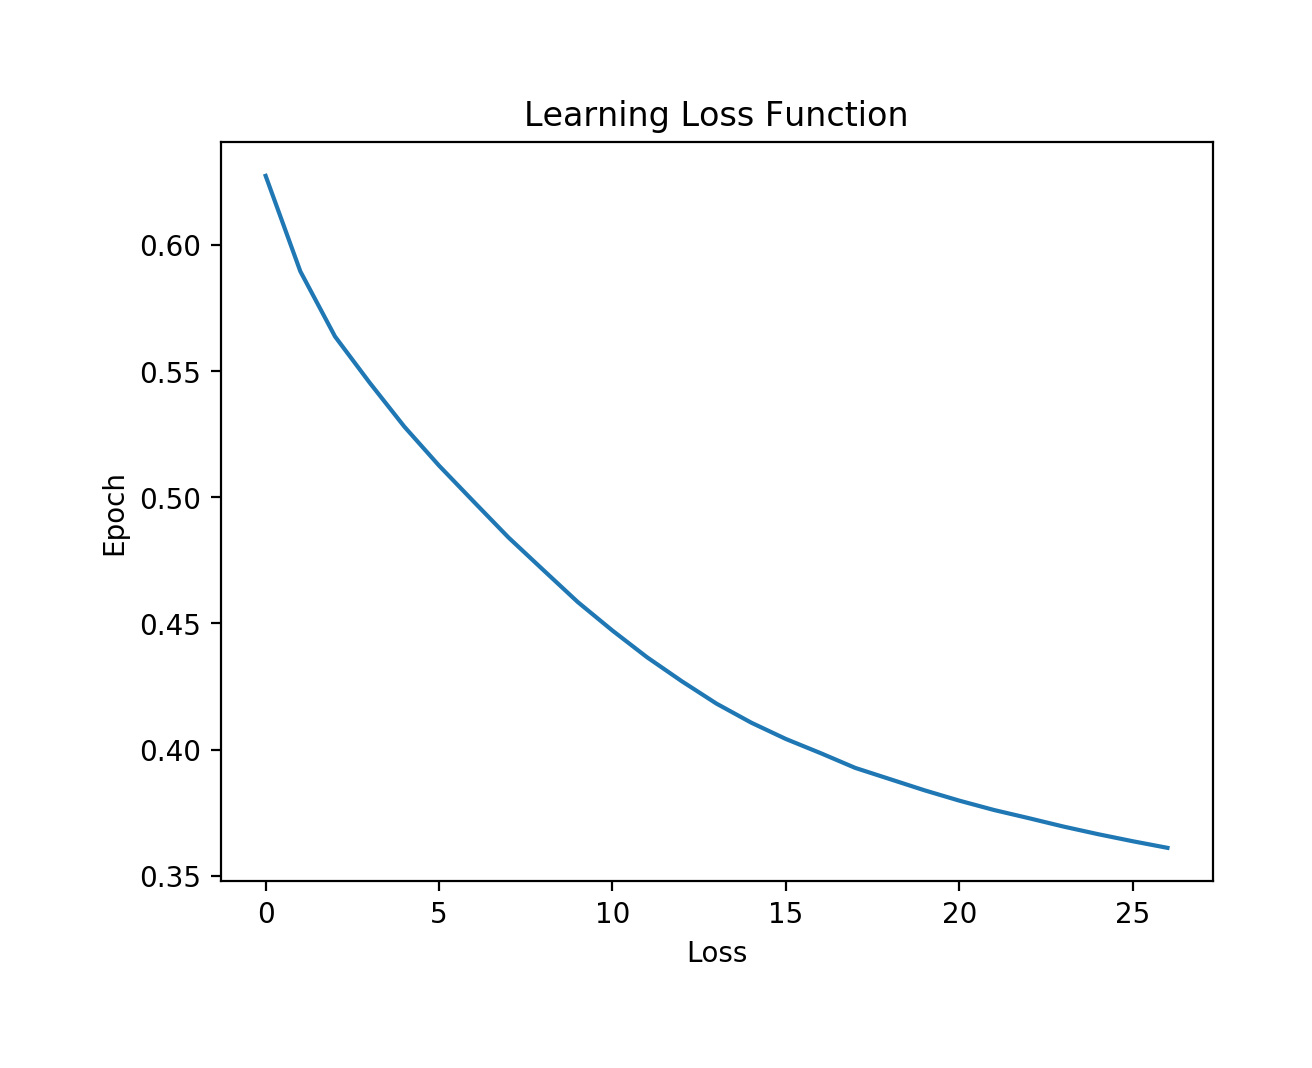
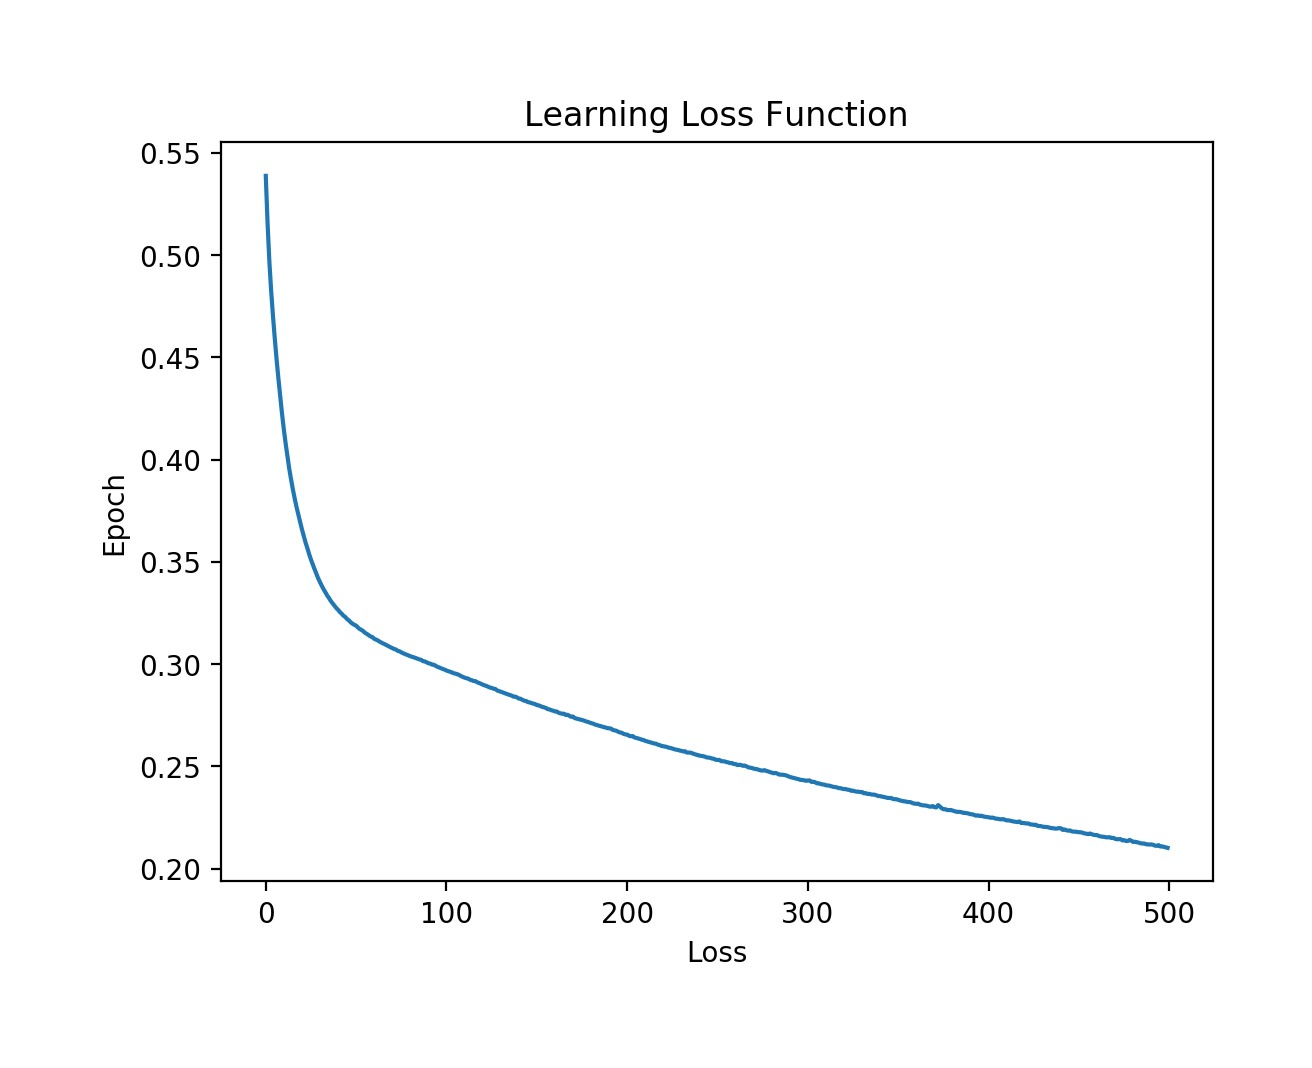
cleaned up README and commented code

diff --git a/main.py b/main.py
@@ -4,10 +4,16 @@ import matplotlib.pyplot as plt
 from sklearn.neural_network import MLPClassifier
 from sklearn.metrics import confusion_matrix
 from sklearn.metrics import mean_squared_error
+import random
 
 # enviroment booleans
 DEBUG = True
 PLOTS = True
+SEED = 555
+#SEED = random.randint(0, 1000)
+
+print("=============== STARTING ===============")
+print("Debug:%r Plots:%r Seed:%d \n" % (DEBUG,  PLOTS, SEED))
 
 # read data form file CSV into pandas data structure
 training_data = pd.read_csv('data/CSV/netflix-train.csv', sep=';')
@@ -19,14 +25,15 @@ training_x = training_data.drop('expected', axis=1)
 testing_y = testing_data['expected']
 testing_x = testing_data.drop('expected', axis=1)
 
-# generate MLP with 1 hidden layer of 9 neurons (18input/2)
+# generate MLP with 1 hidden layer of 15 neurons (30 input/2)
 mlp = MLPClassifier(hidden_layer_sizes=(15,),
                     max_iter=500,
                     activation = 'relu',
                     solver='adam',
                     verbose=DEBUG,
-                    early_stopping=True,
+                    early_stopping=False,
                     validation_fraction=0.2,
+                    random_state=SEED
                     )
 mlp.fit(training_x, training_y)
 

diff --git a/README.md b/README.md
@@ -6,49 +6,97 @@ the 30 most rated movies. This data is from real users on Netflix. (this data is
 This was a project from the 2009 competition called "Netflix Prize"
 https://www.netflixprize.com/community/topic_1537.html
 
-https://web.stanford.edu/class/archive/cs/cs109/cs109.1166/handouts/datasets.html
 
-Values:
+## Tools Used
+* Language: Python
+* Sklearn (Scikit-Learn)
+* Seaborn
+* Pandas
+
+## The data
+
+The data was obtained from the following link:
+
+[Stanford CS109: Machine Learning Datasets](https://web.stanford.edu/class/archive/cs/cs109/cs109.1166/handouts/datasets.html)
+ 
+ You can find some other interesting data sets at the some link
+ 
+  ### Data formatting
+
 Each row in the train and test set represents one user. Each column represents one movie. All users in the dataset 
 rated all movies in the dataset. Each entry in this dataset is binary. 
 * A value of 1 indicates a rating of 4 or 5  (they liked the movie). 
 * A value of 0 indicates a rating of 1, 2 or 3 (didn't really like it).
 
-Column meaning:
-Each column represents ratings for a particular movie.
-Column index, Movie (Year)
-1, Independence Day (1996)
-2, The Patriot (2000)
-3, The Day After Tomorrow (2004)
-4, Pirates of the Caribbean: The Curse of the Black Pearl (2003)
-5, Pretty Woman (1990)
-6, Forrest Gump (1994)
-7, The Green Mile (1999)
-8, Con Air (1997)
-9, Twister (1996)
-10, Sweet Home Alabama (2002)
-11, Pearl Harbor (2001)
-12, Armageddon (1998)
-13, The Rock (1996)
-14, What Women Want (2000)
-15, Bruce Almighty (2003)
-16, Ocean's Eleven (2001)
-17, The Bourne Identity (2002)
-18, The Italian Job (2003)
-19, I Robot (2004)
-20, American Beauty (1999)
-21, How to Lose a Guy in 10 Days (2003)
-22, Lethal Weapon 4 (1998)
-23, Shrek 2 (2004)
-24, Lost in Translation (2003)
-25, Top Gun (1986)
-26, Pulp Fiction (1994)
-27, Gone in 60 Seconds (2000)
-28, The Sixth Sense (1999)
-29, Lord of the Rings: The Two Towers (2002)
-30, Men of Honor (2000)
+ **The 30 input features used:**
 
-Prediction:
+Each column represents ratings for a particular movie.
+1. Independence Day (1996)
+2. The Patriot (2000)
+3. The Day After Tomorrow (2004)
+4. Pirates of the Caribbean: The Curse of the Black Pearl (2003)
+5. Pretty Woman (1990)
+6. Forrest Gump (1994)
+7. The Green Mile (1999)
+8. Con Air (1997)
+9. Twister (1996)
+10. Sweet Home Alabama (2002)
+11. Pearl Harbor (2001)
+12. Armageddon (1998)
+13. The Rock (1996)
+14. What Women Want (2000)
+15. Bruce Almighty (2003)
+16. Ocean's Eleven (2001)
+17. The Bourne Identity (2002)
+18. The Italian Job (2003)
+19. I Robot (2004)
+20. American Beauty (1999)
+21. How to Lose a Guy in 10 Days (2003)
+22. Lethal Weapon 4 (1998)
+23. Shrek 2 (2004)
+24. Lost in Translation (2003)
+25. Top Gun (1986)
+26. Pulp Fiction (1994)
+27. Gone in 60 Seconds (2000)
+28. The Sixth Sense (1999)
+29. Lord of the Rings: The Two Towers (2002)
+30. Men of Honor (2000)
+
+**The expected output:**
+ 
 The variable you are predicting is the binary value for the user's rating of Miss Congeniality (2000).
 
-https://www.dataschool.io/simple-guide-to-confusion-matrix-terminology/
+### Data splitting
+Total number of samples in data: 41,188
+* Number of Training data: 1,720
+* Number of Validation data: 430
+* Number of Test data: 597
+
+## The MLP Model
+We are using a 3 layer MLP model using:
+* 30 neurons in input layer
+* 15 neurons in hidden layer (ReLU activation function)
+* 1 neuron in output layer
+
+We use the adam solver 
+
+## The Code
+
+### How To Run
+To run this code run main.py
+
+There are two parameters that you can use to *generated output plots* and *debug console logs*.
+
+There is also SEED parameter to define the seeds for the sudo random generators in the code. You can set it as a 
+constant to ensure consistency between runs.
+ ```python
+DEBUG = True
+PLOTS = True
+SEED = 555
+```
+
+## Good references
+* <https://scikit-learn.org/stable/modules/generated/sklearn.neural_network.MLPClassifier.html>
+* <https://web.stanford.edu/class/archive/cs/cs109/cs109.1166/handouts/datasets.htm>
+* <https://stackabuse.com/introduction-to-neural-networks-with-scikit-learn/>
+* <https://www.dataschool.io/simple-guide-to-confusion-matrix-terminology/>
